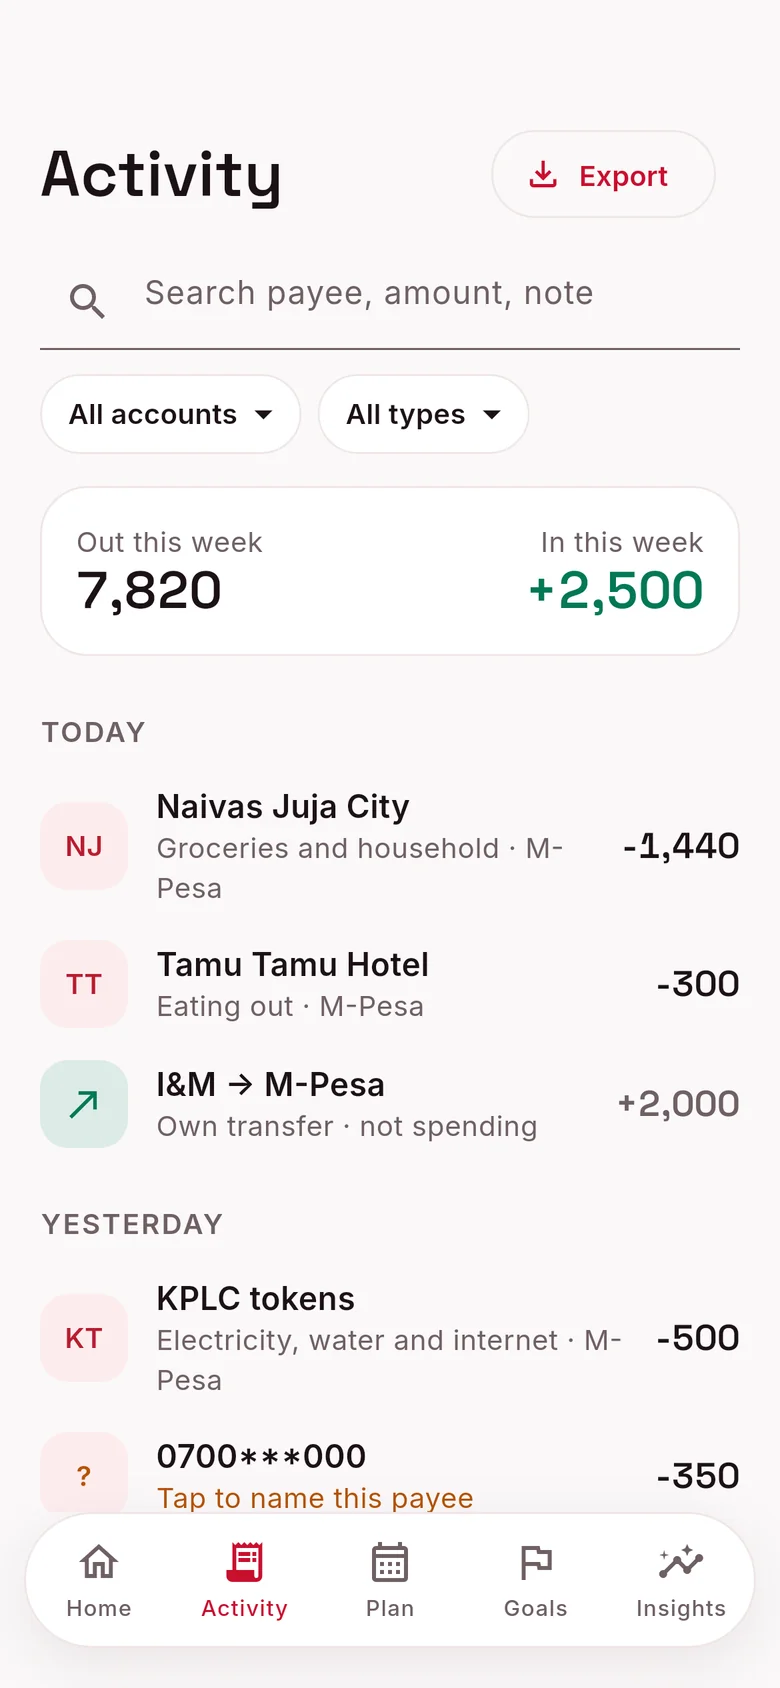
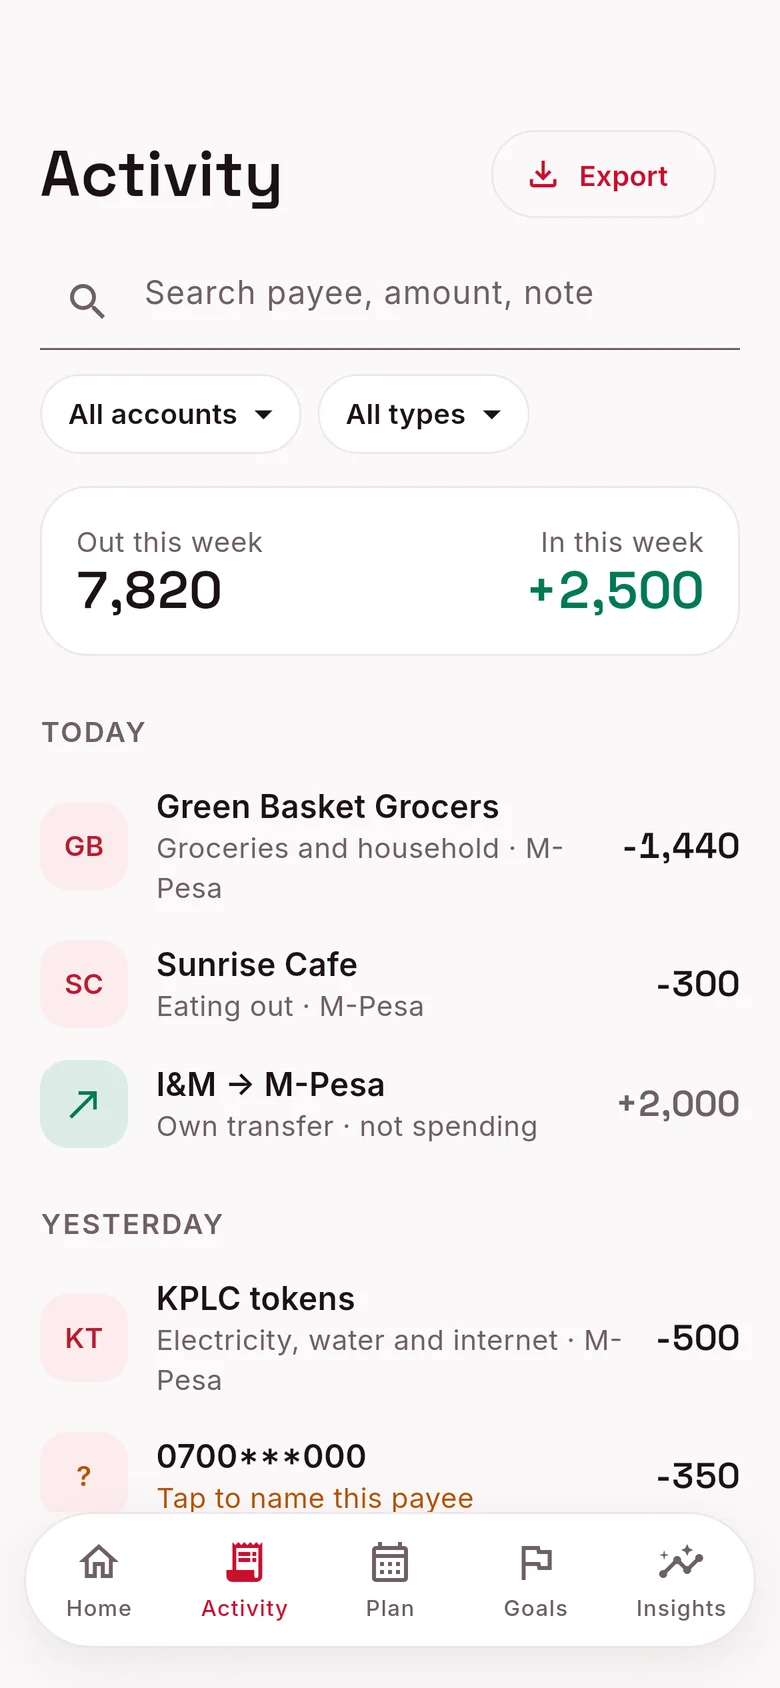
fix: made-up payees in Activity, and sizes from the release

diff --git a/src/data/site.ts b/src/data/site.ts
@@ -1,5 +1,7 @@
 /** Site-wide names, links and copy that more than one page uses. */
 
+import { fetchAppRelease, formatSize } from "./release.mjs";
+
 const org = "https://github.com/pesaclarity";
 
 export const site = {
@@ -106,6 +108,19 @@ export const whatsNew = {
   more: "See all that's new",
 } as const;
 
+/**
+ * The release the buttons offer, read once when the site is built: its
+ * version, date, sizes and what's new. Null when the build has no network.
+ */
+export const appRelease = await fetchAppRelease(releaseTag, {
+  token: import.meta.env.GITHUB_TOKEN,
+});
+
+/** `19.4 MB`, the file most phones take; null when the size is unknown. */
+export const mainApkSize: string | null = formatSize(
+  appRelease?.sizes[apkFiles.android] ?? NaN,
+);
+
 export interface Account {
   name: string;
   /** Shown under the name, for accounts that still need a hand. */
@@ -131,8 +146,10 @@ export interface Item {
   body: string;
 }
 
-/** How big the Android download is, for the download buttons. */
-export const downloadSize = "About 19 MB on most phones";
+/** How big the Android download is, from the release, else in words. */
+export const downloadSize = mainApkSize
+  ? `${mainApkSize} on most phones`
+  : "A small download";
 
 /** What makes Pesa Clarity different. */
 export const different: readonly Item[] = [
@@ -154,7 +171,12 @@ export const different: readonly Item[] = [
     title: "Made for Kenyan money",
     body: "M-Pesa, Fuliza, Saccos, banks, KES and KRA tax estimates.",
   },
-  { title: "Small download", body: `${downloadSize}.` },
+  {
+    title: "Small download",
+    body: mainApkSize
+      ? `${mainApkSize} on most phones.`
+      : "Quick to get, even on mobile data.",
+  },
   {
     title: "For every part of life",
     body: "You, your home, your business, your group and more, each kept apart.",
@@ -583,7 +605,12 @@ export const faqs: readonly Faq[] = [
     q: "Can I use it for my business?",
     a: "Yes. Add a business space to sell, keep stock and see who owes you.",
   },
-  { q: "How big is the download?", a: `${downloadSize}.` },
+  {
+    q: "How big is the download?",
+    a: mainApkSize
+      ? `${mainApkSize} on most phones.`
+      : "A small download, quick on mobile data.",
+  },
   {
     q: "Which download?",
     a: "Android has Google sign-in. F-Droid has no Google services.",
